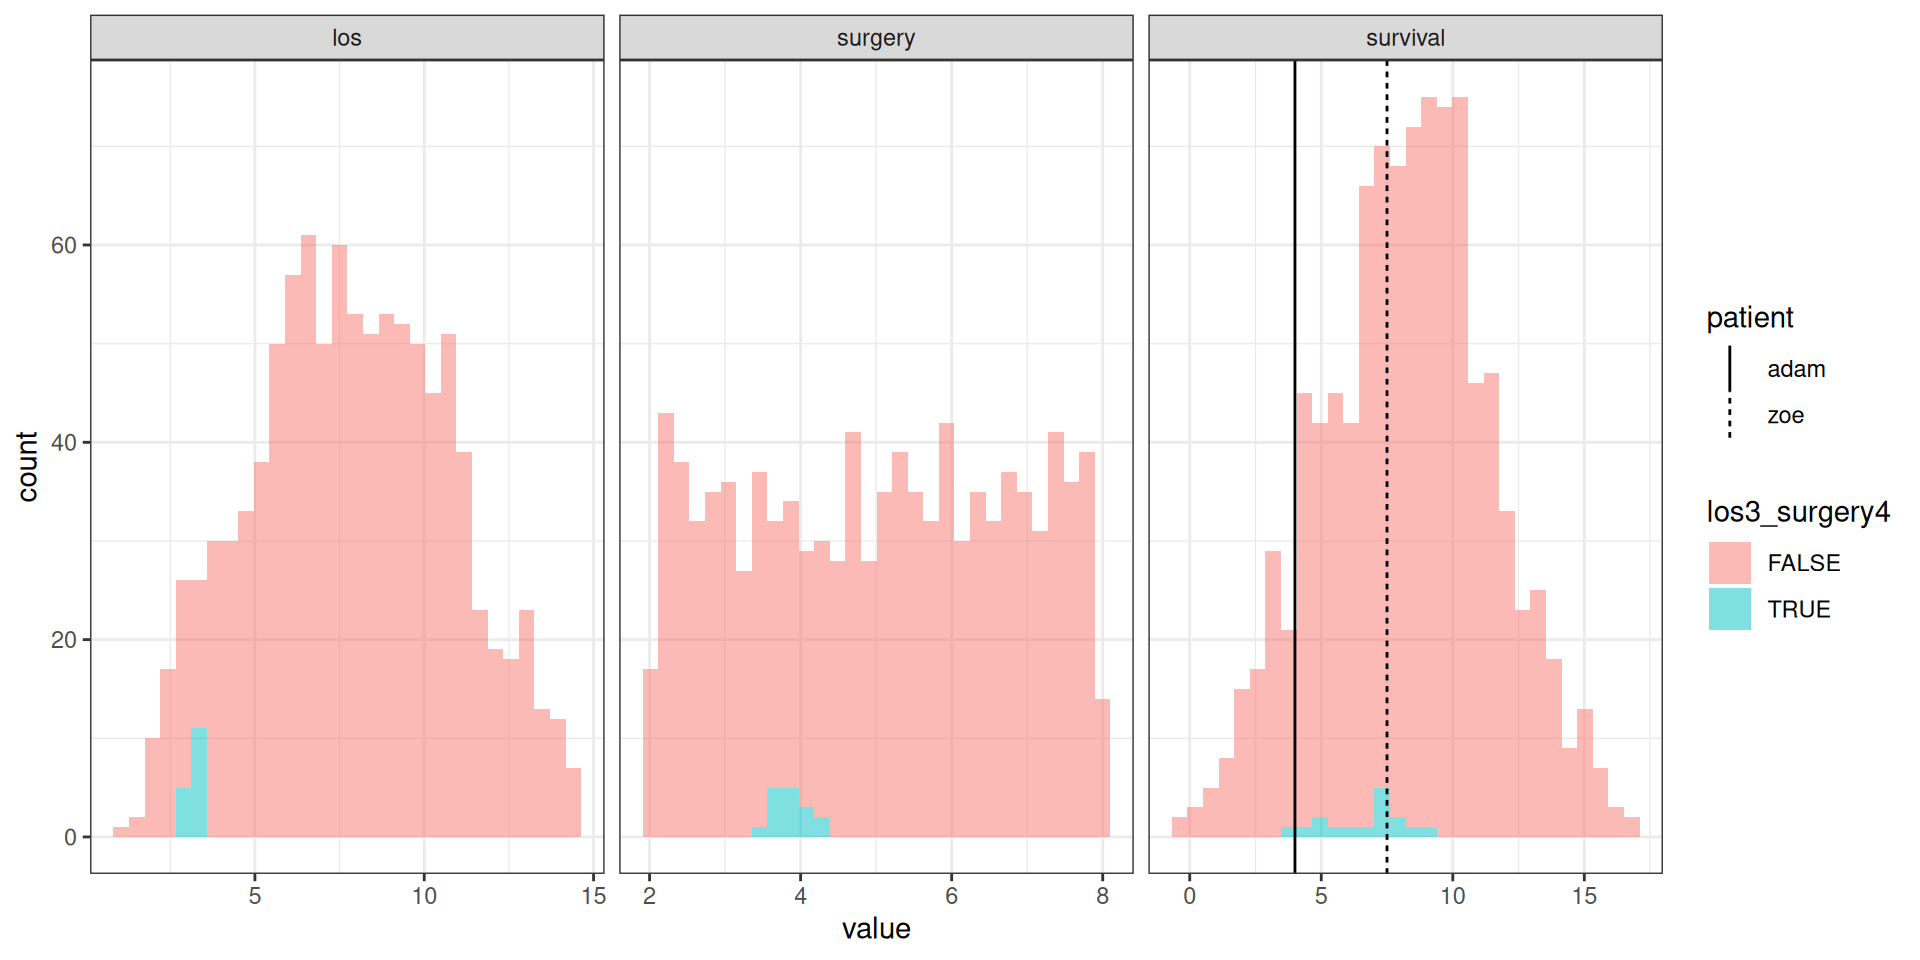
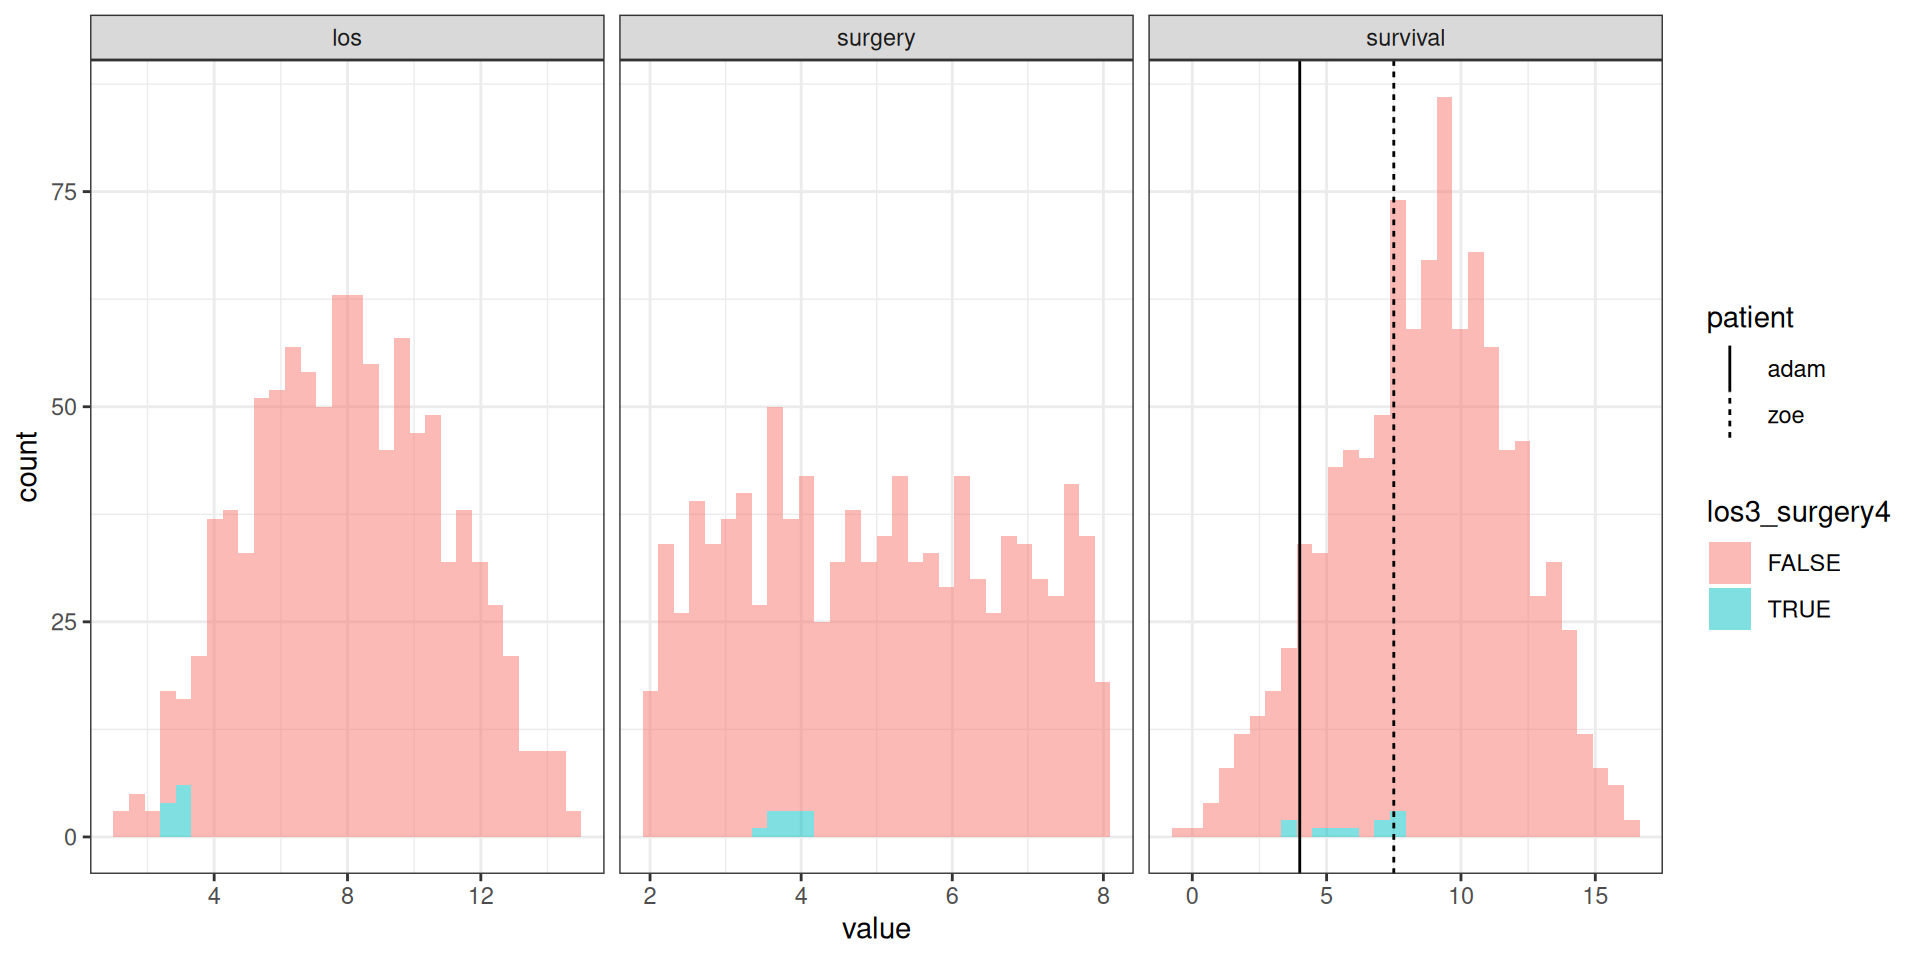
Built site for gh-pages

diff --git a/lectures/day2-scms/lec3-scms.html b/lectures/day2-scms/lec3-scms.html
@@ -512,7 +512,7 @@ Qs:
 <div class="cell fragment" data-execute="false">
 <div class="cell-output cell-output-stdout">
 <pre><code> u_surgery      u_los u_survival 
-  6.309400   1.406898  11.218125 </code></pre>
+  4.205922   1.131587  11.386443 </code></pre>
 </div>
 </div>
 </div>
@@ -536,8 +536,8 @@ Figure&nbsp;1: 1000 random samples of U
 </div>
 <div class="cell fragment" data-execute="true">
 <div class="cell-output cell-output-stdout">
-<pre><code>  u_surgery       u_los  u_survival     surgery         los    survival 
- 3.28186253 -0.04508724 10.53885380  3.28186253  3.23677528  7.21190403 </code></pre>
+<pre><code> u_surgery      u_los u_survival    surgery        los   survival 
+  5.206568   5.965673  12.057811   5.206568  11.172241  12.816917 </code></pre>
 </div>
 </div>
 <div class="fragment">
@@ -586,9 +586,9 @@ Figure&nbsp;2: Realisations of endogenous variables V over random samples of U i
 <div class="cell-output cell-output-stdout">
 <pre><code>       model mean_survival
       &lt;char&gt;         &lt;num&gt;
-1:      scm1      8.263625
-2: submodel3      3.389874
-3: submodel7      7.389874</code></pre>
+1:      scm1      8.660162
+2: submodel3      3.618461
+3: submodel7      7.618461</code></pre>
 </div>
 </div>
 </section></section>
